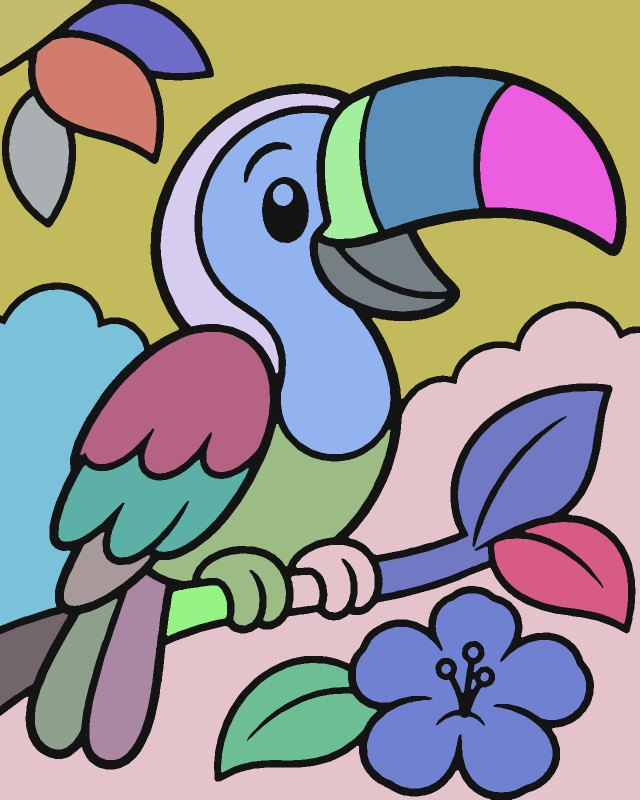
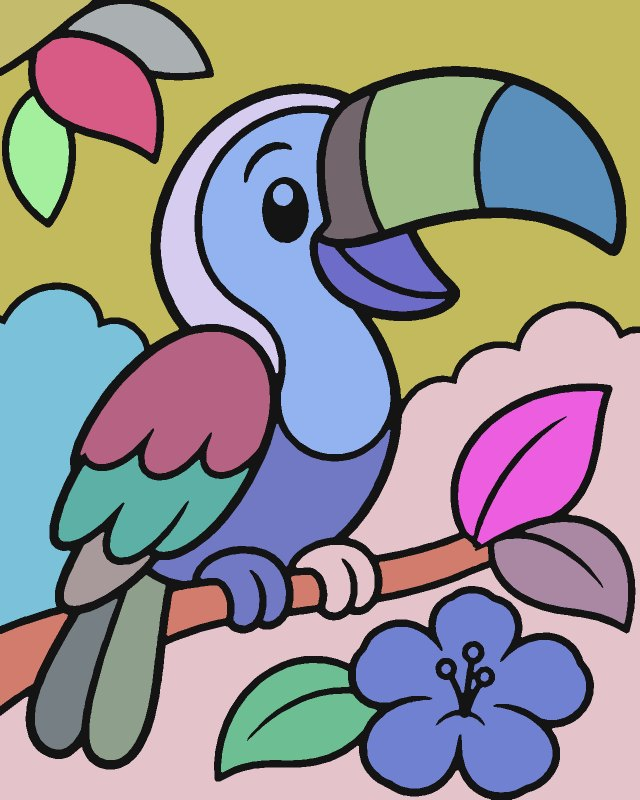
fix: separar la hoja de la rama en E04

diff --git a/tool/laminas/convertir.py b/tool/laminas/convertir.py
@@ -66,7 +66,7 @@ PAGINAS_PREVIAS = {'E01': ('rana-en-la-hoja', 2), 'M06': ('quetzal', 2),
 def pagina_de(art_id, tema_id):
     if art_id in PAGINAS_PREVIAS:
         return PAGINAS_PREVIAS[art_id]
-    return f'{art_id.lower()}-{tema_id}', 2 if art_id == 'E03' else 1
+    return f'{art_id.lower()}-{tema_id}', 2 if art_id in {'E03', 'E04'} else 1
 
 
 def leer_gris(ruta):
@@ -262,20 +262,33 @@ def procesar(art_id, tema_id, fuente, original):
         cambios.append(
             f'{len(brillos)} brillos sobre tinta conservados como regiones propias')
 
+    agrupadas_a_mano = 0
+    if art_id == 'E04':
+        # Los cuatro tramos de la rama forman una sola pieza, interrumpida
+        # por la cola y las patas. Las sondas usan el lienzo de 1280 × 1600.
+        tramos = [int(zonas[y, x]) for x, y in
+                  ((45, 1299), (379, 1214), (612, 1181), (798, 1147))]
+        if len(set(tramos)) != 4 or 0 in tramos:
+            raise ValueError('E04: las sondas deben identificar cuatro tramos de rama')
+        for tramo in tramos[1:]:
+            g.unir(tramo, tramos[0])
+        agrupadas_a_mano = len(tramos) - 1
+        cambios.append('4 tramos de la rama agrupados en una región propia')
+
     while True:
         chicos = [a for a in g.area if pequeno(a) and g.vec.get(a)]
         if not chicos:
             break
         a = min(chicos, key=lambda k: g.area[k])
         g.unir(a, g.mejor_vecino(a))
-    por_minimo = n - len(g.area)
+    por_minimo = n - len(g.area) - agrupadas_a_mano
     while len(g.area) - len(brillos) > nivel['tope']:
         candidatos = [k for k in g.area if g.vec.get(k)]
         if not candidatos:
             break
         a = min(candidatos, key=lambda k: g.area[k])
         g.unir(a, g.mejor_vecino(a))
-    por_tope = n - por_minimo - len(g.area)
+    por_tope = n - por_minimo - agrupadas_a_mano - len(g.area)
     if por_minimo:
         cambios.append(
             f'{por_minimo} zonas pequeñas agrupadas con su vecina')

diff --git a/tool/laminas/manifiesto.py b/tool/laminas/manifiesto.py
@@ -87,6 +87,7 @@ TEMAS = [
 # Plantillas anteriores de las páginas que ya existían.
 PREVIAS = {
     'e03-colibri': {'1': 'pages/e03-colibri-v1.json'},
+    'e04-tucan': {'1': 'pages/e04-tucan-v1.json'},
     'rana-en-la-hoja': {'1': 'pages/rana-en-la-hoja-v1.json'},
     'quetzal': {'1': 'pages/quetzal-v1.json'},
     'sendero': {'1': 'pages/sendero-v1.json'},

diff --git a/docs/laminas/REGISTRO_CAMBIOS.md b/docs/laminas/REGISTRO_CAMBIOS.md
@@ -26,12 +26,14 @@ Todas las láminas se normalizan a 1600 px de lado mayor y se vectorizan; debajo
 - huecos de trazo cerrados (352 px)
 - 5 zonas pequeñas agrupadas con su vecina
 
-## E04 · `e04-tucan` (revisión 1)
+## E04 · `e04-tucan` (revisión 2)
 
 - Original: `Tucán caricaturesco en el bosque nuboso-3.webp` → `E04_tucan.webp` (1122 × 1402 px), SHA-256 `7ba5b21443515c40…`
+- Fuente corregida: `tool/laminas/fuentes_corregidas/E04.png`. Se cerró el contorno donde la hoja superior derecha se une con la rama.
 - Lienzo: 1280 × 1600 (vertical); trazo 15.6 px; tinta que toca el marco: 4.1 %
-- huecos de trazo cerrados (576 px)
-- 9 zonas pequeñas agrupadas con su vecina
+- huecos de trazo cerrados (595 px)
+- 4 tramos de la rama agrupados en una región propia
+- 8 zonas pequeñas agrupadas con su vecina
 
 ## E05 · `e05-flor-tropical` (revisión 1)
 
